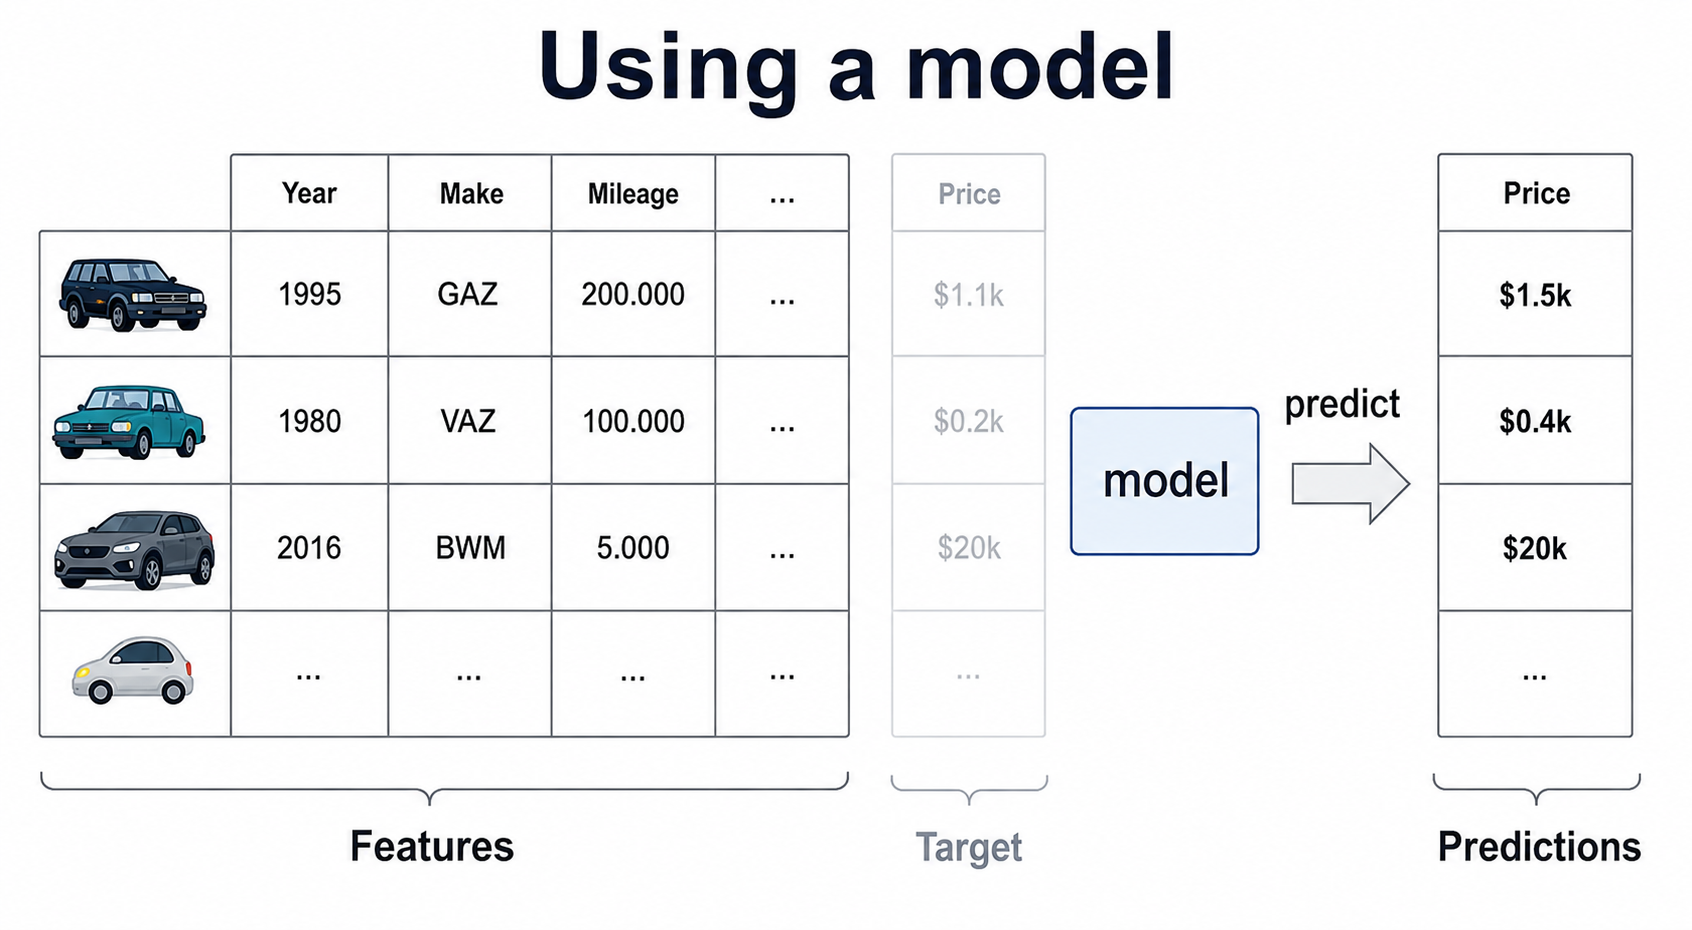
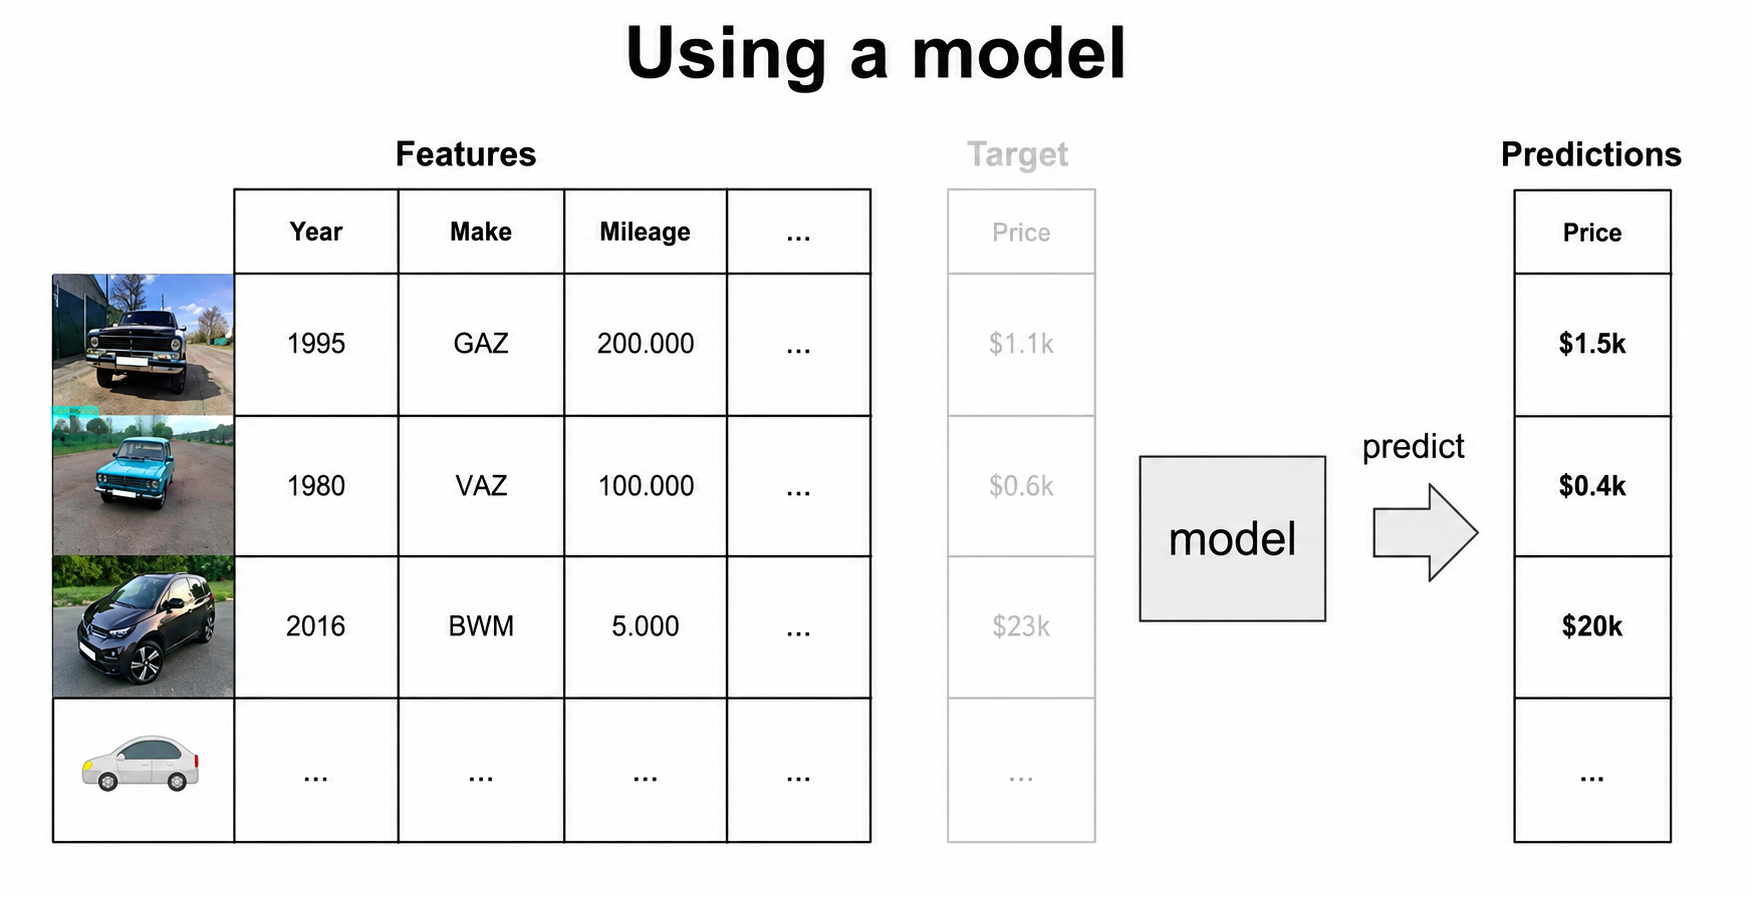
Correct intro illustration invariants

diff --git a/.tmp/ml-intro-imagegen-06-07.md b/.tmp/ml-intro-imagegen-06-07.md
@@ -12,19 +12,19 @@
 - Source: `cohorts/2026/01-intro/images/01-what-is-ml-06-using-model.jpg` (598×360)
 - Crop: `500×255+25+82`
 - Output: `cohorts/2026/01-intro/images/01-what-is-ml-06-using-model-imagegen-pilot.png` (1692×930)
-- Prompt iteration: 1
-- Prompt focus: crisp scientific-educational diagram; exact title, feature-table labels and values, faded target column, `model` box, `predict` arrow, and prediction values `$1.5k`, `$0.4k`, `$20k`.
-- Validation: passed visual inspection. All required labels and values are readable; the feature-to-model-to-predictions relationship is preserved. No presenter, face, camera tile, browser/Zoom chrome, recording controls, cursor, watermark, black bars, or screenshot artifacts remain.
+- Prompt iteration: 2 total; the first pilot was rejected because it changed the faded Target values. The second was a targeted follow-up using the same deterministic crop.
+- Prompt focus: crisp scientific-educational diagram with exact invariants: faded Target values `$1.1k`, `$0.6k`, `$23k`, `...`; Predictions values `$1.5k`, `$0.4k`, `$20k`, `...`; feature rows `1995/GAZ/200.000`, `1980/VAZ/100.000`, and `2016/BWM/5.000`.
+- Validation: passed visual inspection after correction. Every required label and numeric value is readable and exact; the feature-to-target-to-model-to-predictions relationship is preserved. No extra numeric values, presenter, face, camera tile, browser/Zoom chrome, recording controls, cursor, watermark, black bars, or screenshot artifacts remain.
 
 ## Asset 07: suggest price
 
 - Source: `cohorts/2026/01-intro/images/01-what-is-ml-07-suggest-price.jpg` (598×360)
 - Crop: `220×285+15+30`
 - Output: `cohorts/2026/01-intro/images/01-what-is-ml-07-suggest-price-imagegen-pilot.png` (1536×1024)
-- Prompt iteration: 1
-- Prompt focus: crisp educational car-ad form with the stick figure, exact labels `Describe in detail`, `Photo`, `Price`, `Required field`, and `UAH`, plus a filled price marked `Suggested by model`.
-- Validation: passed visual inspection. The form concept and teaching point are preserved, the required labels are readable, and the stick figure remains a neutral lesson illustration. No presenter, face, camera tile, browser/Zoom chrome, recording controls, cursor, watermark, black bars, or screenshot artifacts remain.
+- Prompt iteration: 2 total; the first pilot was rejected because it changed the source text to `Toyota Prius`.
+- Prompt focus: crisp educational car-ad form with the stick figure, exact source text `Toyota Hilux, almost new`, required labels `Describe in detail`, `Photo`, `Price`, `Required field`, and `UAH`, plus an allowed model-filled suggested price.
+- Validation: passed visual inspection after correction. The form concept and teaching point are preserved, the required labels and `Toyota Hilux, almost new` are readable and exact, and the stick figure remains a neutral lesson illustration. No presenter, face, camera tile, browser/Zoom chrome, recording controls, cursor, watermark, black bars, screenshot artifacts, or unrelated UI remain.
 
 ## Limitations
 
-The generated raster illustrations are faithful educational redraws, not pixel-preserving restorations. The original source images remain available for comparison, and lesson Markdown was intentionally not edited in this pilot.
+The generated raster illustrations are faithful educational redraws, not pixel-preserving restorations. Commit `c84e26b` is superseded by the follow-up commit because its 06 Target values and 07 car-model text failed QA. The original source images remain available for comparison, and lesson Markdown was intentionally not edited in this pilot.
